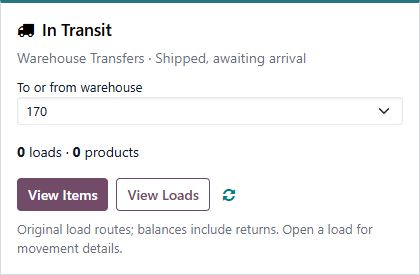
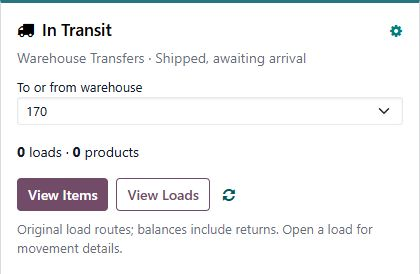
Document overview visibility settings with verified sandbox screenshots

diff --git a/docs/assets/manuals.js b/docs/assets/manuals.js
@@ -43,7 +43,7 @@ const MODULES = [
   {slug:'celestial-3pl-fulfillment',module:'celestial_3pl_fulfillment',name:'Celestial 3PL Fulfillment',version:'19.0.1.0.2',category:'Warehouse & Logistics',repo:'Insight',summary:'Manages controlled release of outgoing deliveries to Celestial 3PL and records shipment confirmation.',setup:['Open Inventory → Configuration → Celestial 3PL Setup.','Select the exact company and warehouse, then review the address and dispatch email.','Use Preview and Enable only after the business approves the 3PL routing; the integration starts inactive.'],use:['Open the selected outgoing delivery and print the 3PL Pick List.','Review the delivery and use Send to Celestial when the release is approved.','After actual fulfillment evidence arrives, record shipped quantities and use Confirm 3PL Shipment.','Use native backorders for partial shipments and review the remaining quantities.'],troubleshoot:['If the action is absent, check the company, warehouse, delivery type, and enabled setup.','Do not confirm shipment before receiving evidence of actual quantities.','Vendor receipts are outside this outgoing 3PL workflow.']},
   {slug:'receipt-price-confirmation',module:'receipt_price_confirmation',name:'Receipt Price Confirmation',version:'19.0.1.0.5',category:'Warehouse & Logistics',repo:'receipt-price-confirmation',summary:'Adds an optional warehouse-level price review between physical receipt and inventory validation.',setup:['Open Inventory → Configuration → Warehouses and select the warehouse.','Enable Require Price Confirmation Before Receipt for that warehouse and save.','Confirm that an authorized pricing reviewer can access the confirmation queue.'],use:["In Odoo Barcode, scan the supplier receipt and enter the actual arrived quantities.", "Select Validate to open Receipt Acknowledgment, then Record Physical Arrival. Stock remains unreceived and unavailable.", "When QZ SATO Labels 19.0.1.0.8 or newer is installed, choose label quantities and a server printer in the label dialog, or choose Skip Printing.", "An Inventory or Purchase Administrator opens Confirm Receipt Pricing, reviews costs and confirms pricing.", "Validate the receipt after pricing approval and quantity review. Changes to products or quantities require pricing to be confirmed again.", "Use Daily Received Items or Weekly Received Items to review Final Validation and Pricing. Open to Validate takes you to the receipt and its normal approval controls."],troubleshoot:['If the price step does not appear, verify the setting on the receipt warehouse.','Check the reviewer’s permissions if Confirm Pricing is unavailable.','Do not validate a receipt with unresolved quantity or cost differences.']},
   {slug:'warehouse-location-pick-routing',module:'warehouse_location_pick_routing',name:'Warehouse Location Pick Routing',version:'19.0.1.0.12',category:'Warehouse & Logistics',repo:'warehouse-location-pick-routing',summary:'Routes eligible 170/Stock to 170/Output picks through 160 crew location tickets while preserving reservations.',setup:['Confirm the source and destination locations and 160 crew locations match the warehouse routing design.','Installation activates the eligible route; review it with warehouse leads before relying on it.'],use:['Open an eligible outgoing pick and review the generated location-level child tickets.','Work each child ticket from its assigned source location and record the actual picked quantities.','Review remaining quantities and backorders before completing the parent delivery.'],troubleshoot:['The route applies only to the configured 170/Stock → 170/Output flow.','If tickets are missing or quantities differ, inspect source locations, reservations, and completed child moves before retrying.']},
-  {slug:'warehouse-shipment',module:'warehouse_shipment',name:'Warehouse Transfers',version:'19.0.1.0.10',category:'Warehouse & Logistics',repo:'warehouse-shipment',guideUrl:'170-to-celestial.html',summary:'Plans interwarehouse loads with source pick tickets, shipping BOLs, linked stock operations and progress tracking. Illustrated release verified in sandbox; check production availability.',setup:['Select the correct company and verify both warehouses belong to it.','Verify the source-to-destination resupply route and warehouse shipping addresses.','For 170 to Celestial, use Celestial - California: Supply Product from 170. The illustrated route is 170/Stock → 170/Output → Inter-warehouse transit → CELCA/Stock.'],use:['Open Inventory → Operations → Warehouse Transfers and select New.','Choose source, destination, route, planned arrival, load reference and product quantities in their stock units.','Complete Shipping / BOL and select Confirm Transfer. Review All Transfers and print the Pick Ticket and Shipping BOL.','Complete the source pick, validate departure into transit, then receive actual arrival quantities through the existing destination receipt.','If using the Celestial Inventory connector, set the inbound receipt reference before transaction processing. Do not receive a quantity twice.','Review backorders and Picked, Shipped, In Transit, Arrived, Stored and Remaining. Follow the complete illustrated 170-to-Celestial guide linked above.'],troubleshoot:['Check company, access, installed version and the exact resupply route when a menu or route is missing.','Confirmation and document printing do not validate transfers; actual source dispatch and destination receipt are separate operations.','Use actual quantities and native backorders for partial moves. Do not use stock-comparison adjustments to receive a load already in transit.']},
+  {slug:'warehouse-shipment',module:'warehouse_shipment',name:'Warehouse Transfers',version:'19.0.1.0.12',category:'Warehouse & Logistics',repo:'warehouse-shipment',guideUrl:'170-to-celestial.html',summary:'Plans interwarehouse loads with source pick tickets, shipping BOLs, linked stock operations and progress tracking. Illustrated release verified in sandbox; check production availability.',setup:['Select the correct company and verify both warehouses belong to it.','Verify the source-to-destination resupply route and warehouse shipping addresses.','For 170 to Celestial, use Celestial - California: Supply Product from 170. The illustrated route is 170/Stock → 170/Output → Inter-warehouse transit → CELCA/Stock.'],use:['Open Inventory → Operations → Warehouse Transfers and select New.','Choose source, destination, route, planned arrival, load reference and product quantities in their stock units.','Complete Shipping / BOL and select Confirm Transfer. Review All Transfers and print the Pick Ticket and Shipping BOL.','Complete the source pick, validate departure into transit, then receive actual arrival quantities through the existing destination receipt.','If using the Celestial Inventory connector, set the inbound receipt reference before transaction processing. Do not receive a quantity twice.','Review backorders and Picked, Shipped, In Transit, Arrived, Stored and Remaining. Follow the complete illustrated 170-to-Celestial guide linked above.'],troubleshoot:['Check company, access, installed version and the exact resupply route when a menu or route is missing.','Confirmation and document printing do not validate transfers; actual source dispatch and destination receipt are separate operations.','Use actual quantities and native backorders for partial moves. Do not use stock-comparison adjustments to receive a load already in transit.']},
   {slug:'product-on-order-column',module:'product_on_order_column',name:'Product On Order Column',version:'19.0.1.0.0',category:'Products & Inventory',repo:'product-on-order-column',summary:'Shows outstanding confirmed purchase-order quantity on the product list for the active company.',setup:['Open Purchase → Configuration → Settings.','Under Product List, enable Show On Order Column for the current company and save.','Repeat for any other company that should see the column.'],use:['Open the product list in the company where the setting is enabled.','Review On Order alongside existing stock quantities.','Open the purchase orders when you need supplier, date, or line-level detail.'],troubleshoot:['If the column is absent, confirm the active company and the Product List setting.','On Order reflects confirmed purchase-order quantity remaining to receive; draft orders are excluded.'],walkthrough:[{title:'Enable the column',image:'assets/screenshots/product-on-order-setting.jpg',caption:'The Purchase settings page shows the company-specific Show On Order Column option.',steps:['Select the intended company.','Open Purchase → Configuration → Settings.','Enable Show On Order Column and save.','Open the product list to verify the column.']}]},
 ];
 

diff --git a/docs/170-to-celestial.html b/docs/170-to-celestial.html
@@ -21,7 +21,7 @@
       <div class="callout"><strong>Screenshot environment:</strong> sandbox, captured October 20, 2026 using <strong>TEST Warehouse Transfer Product</strong> and a TRAINING reference. The example was confirmed to show its linked operations, then canceled without validating any stock moves. Screenshots show fields and buttons, not evidence of a completed physical shipment. These controls reflect sandbox. Confirm they are available in production before following the guide there. Receipt-matching fields require the Celestial Inventory connector.</div>
     </header>
     <div class="guide-layout">
-      <aside class="toc"><strong>On this page</strong><a href="#before">Before you start</a><a href="#plan">1. Plan the load</a><a href="#quantities">2. Enter quantities</a><a href="#bol">3. Shipping details</a><a href="#confirm">4. Confirm and print</a><a href="#pick">5. Pick at 170</a><a href="#ship">6. Record departure</a><a href="#transit">Track loads in transit</a><a href="#reference">7. Match the receipt</a><a href="#receive">8. Receive at Celestial</a><a href="#finish">9. Verify completion</a><a href="#exceptions">Shortages and problems</a></aside>
+      <aside class="toc"><strong>On this page</strong><a href="#before">Before you start</a><a href="#plan">1. Plan the load</a><a href="#quantities">2. Enter quantities</a><a href="#bol">3. Shipping details</a><a href="#confirm">4. Confirm and print</a><a href="#pick">5. Pick at 170</a><a href="#ship">6. Record departure</a><a href="#transit">Track loads in transit</a><a href="#overview-visibility">Show or hide overview boxes</a><a href="#reference">7. Match the receipt</a><a href="#receive">8. Receive at Celestial</a><a href="#finish">9. Verify completion</a><a href="#exceptions">Shortages and problems</a></aside>
       <article class="guide-content">
         <section class="guide-section" id="before">
           <p class="eyebrow">Prerequisites</p><h2>Before you start</h2>
@@ -70,6 +70,17 @@
           <p class="eyebrow">Inventory overview</p><h2>Track loads in transit</h2>
           <ol class="steps"><li>Open <strong>Inventory → Overview</strong> and find the <strong>In Transit</strong> box. It covers <strong>Warehouse Transfers loads only</strong>.</li><li>Choose <strong>170</strong> or <strong>Celestial – California</strong> under <strong>To or from warehouse</strong>. The filter includes loads in either direction for that warehouse and within your selected companies. Use the refresh icon after completing operations elsewhere.</li><li>Select <strong>View Items</strong> to see the product, original load source/destination, stock unit and in-transit quantity. Select <strong>View Loads</strong> or <strong>Open Load</strong> to review linked transfers and evidence.</li><li>The box counts distinct loads and products. In-transit quantity is net shipped minus net arrived: confirmation or picking alone does not add an item. Partial arrivals reduce it; full arrival removes it even if storage is unfinished. A closed-short load can still have goods in transit.</li><li>Returns are netted into these balances. The warehouse columns identify the original load route; use the linked transfers to review actual return direction. This box is read-only and does not move stock.</li></ol>
           <figure class="figure" style="max-width:460px"><a href="assets/screenshots/170-celestial/09-in-transit.png" target="_blank" rel="noreferrer"><img src="assets/screenshots/170-celestial/09-in-transit.png" loading="lazy" alt="Inventory overview In Transit box with warehouse filter, load and product counts, View Items, View Loads and refresh controls."></a><figcaption>The In Transit box with warehouse 170 selected. Zero means no positive dispatched-but-not-arrived balance for that scope at capture time; a confirmed plan alone is not in transit.</figcaption></figure>
+        </section>
+        <section class="guide-section" id="overview-visibility">
+          <p class="eyebrow">Inventory administrator</p><h2>Show or hide overview boxes</h2>
+          <p>These settings change visibility for everyone. They do not archive the operation type, disable its routes, change transfers or move stock. All boxes start enabled.</p>
+          <h3>Receipts, Pick, Delivery Orders and other operation boxes</h3>
+          <ol class="steps"><li>Open the box’s <strong>⋮ → Configuration</strong>, or go to <strong>Inventory → Configuration → Operations Types</strong>.</li><li>Open the exact operation type and verify its <strong>Warehouse</strong> and <strong>Company</strong>. For example, 170 Internal Transfers is separate from Celestial Internal Transfers.</li><li>On <strong>General</strong>, uncheck <strong>Show on Inventory Overview</strong> to hide that box, or check it to show the box.</li><li>Save, return to <strong>Overview</strong>, and refresh the page. A hidden operation is still listed in Operations Types, so you can turn the checkbox back on there.</li></ol>
+          <figure class="figure"><a href="assets/screenshots/170-celestial/10-operation-visibility.png" target="_blank" rel="noreferrer"><img src="assets/screenshots/170-celestial/10-operation-visibility.png" loading="lazy" alt="Operation type General configuration with the Show on Inventory Overview checkbox beside the warehouse settings."></a><figcaption>Change only the overview checkbox. Keep the operation active when it is still part of a warehouse route.</figcaption></figure>
+          <p>Immediately after a module update, reopen Inventory from the Home menu once so the overview loads its updated settings.</p><h3>The In Transit box</h3>
+          <ol class="steps"><li>Select the box’s <strong>Configuration</strong> gear, or open <strong>Inventory → Configuration → In Transit Overview</strong>.</li><li>Change <strong>Show on Inventory Overview</strong> and select <strong>Save</strong>.</li><li>Refresh Overview if needed. If the box is hidden, the Configuration menu remains available to enable it again.</li></ol>
+          <figure class="figure"><a href="assets/screenshots/170-celestial/11-transit-visibility.png" target="_blank" rel="noreferrer"><img src="assets/screenshots/170-celestial/11-transit-visibility.png" loading="lazy" alt="In Transit Overview configuration dialog with a Show on Inventory Overview checkbox and Save and Cancel buttons."></a><figcaption>The In Transit visibility preference applies to all users and companies. Inventory or Settings administrators control this setting.</figcaption></figure>
+          <p>For a personal selection instead, use the standard operation boxes’ stars and the <strong>Favorites</strong> filter, then save your search as a default. The shared visibility checkbox determines whether a standard box is available on Overview at all.</p>
         </section>
         <section class="guide-section" id="reference">
           <p class="eyebrow">07 · Receiving coordinator</p><h2>Put Celestial’s matching reference on the receipt</h2>

diff --git a/docs/changes.html b/docs/changes.html
@@ -1,4 +1,4 @@
-<!doctype html><html lang="en"><head><meta charset="utf-8"><meta name="viewport" content="width=device-width,initial-scale=1"><meta name="description" content="Version and repository change tracking for documented Odoo modules."><title>Module Changes · Foresight Odoo Documentation</title><link rel="stylesheet" href="assets/docs.css?v=20260917-2"><script defer src="assets/manuals.js?v=20261020-transit"></script></head><body>
+<!doctype html><html lang="en"><head><meta charset="utf-8"><meta name="viewport" content="width=device-width,initial-scale=1"><meta name="description" content="Version and repository change tracking for documented Odoo modules."><title>Module Changes · Foresight Odoo Documentation</title><link rel="stylesheet" href="assets/docs.css?v=20260917-2"><script defer src="assets/manuals.js?v=20261020-visibility"></script></head><body>
 <a class="skip-link" href="#main">Skip to changes</a><header class="site-header"><div class="header-inner"><a class="brand" href="index.html"><span class="brand-mark">F</span><span>Odoo Documentation</span></a><nav class="site-nav"><a href="index.html">Home</a><a href="daily-workflows.html">Daily workflows</a><a href="quick-start.html">Quick start</a><a href="modules.html">Module manuals</a><a href="changes.html" aria-current="page">Changes</a><a href="quotation-sop.html">Quotation SOP</a></nav></div></header>
 <main id="main" class="page-shell"><header class="guide-head compact-head"><p class="eyebrow">Change control</p><h1>Module version register</h1><p class="lede">A public, sanitized register of the source versions covered by these manuals. Check Odoo Apps for installed versions; a documented version does not confirm production deployment. Repository history remains the authoritative technical record.</p><div class="callout"><strong>Privacy:</strong> Private repository links require an authorized GitHub account. This page never contains source credentials or customer records.</div></header><section class="section"><div class="table-scroll"><table class="comparison-table change-table"><thead><tr><th>Module</th><th>Documented version</th><th>Category</th><th>Technical history</th></tr></thead><tbody data-change-table></tbody></table></div></section></main>
 <footer class="site-footer"><div class="footer-inner"><p>Foresight Packaging Solutions · Odoo 19</p><p>Version register reviewed 14 October 2026</p></div></footer></body></html>

diff --git a/docs/modules.html b/docs/modules.html
@@ -1,4 +1,4 @@
-<!doctype html><html lang="en"><head><meta charset="utf-8"><meta name="viewport" content="width=device-width,initial-scale=1"><meta name="description" content="Searchable user manuals for Foresight Packaging Solutions Odoo modules."><title>Module Manuals · Foresight Odoo Documentation</title><link rel="stylesheet" href="assets/docs.css?v=20260917-2"><script defer src="assets/manuals.js?v=20261020-transit"></script></head><body>
+<!doctype html><html lang="en"><head><meta charset="utf-8"><meta name="viewport" content="width=device-width,initial-scale=1"><meta name="description" content="Searchable user manuals for Foresight Packaging Solutions Odoo modules."><title>Module Manuals · Foresight Odoo Documentation</title><link rel="stylesheet" href="assets/docs.css?v=20260917-2"><script defer src="assets/manuals.js?v=20261020-visibility"></script></head><body>
 <a class="skip-link" href="#main">Skip to manuals</a><header class="site-header"><div class="header-inner"><a class="brand" href="index.html"><span class="brand-mark">F</span><span>Odoo Documentation</span></a><nav class="site-nav"><a href="index.html">Home</a><a href="daily-workflows.html">Daily workflows</a><a href="quick-start.html">Quick start</a><a href="modules.html" aria-current="page">Module manuals</a><a href="changes.html">Changes</a><a href="quotation-sop.html">Quotation SOP</a></nav></div></header>
 <main id="main" class="page-shell"><section class="library-head"><p class="eyebrow">Odoo handbook</p><h1>Module manuals</h1><p class="lede">Search illustrated guides for current and optional Odoo 19 modules. Check Apps for each module’s installation status.</p><div class="library-tools"><label><span>Search manuals</span><input data-module-search type="search" placeholder="Search by name, module, or purpose"></label><label><span>Category</span><select data-category-filter></select></label></div><p class="result-count" data-result-count></p></section><section class="module-grid" data-module-grid aria-live="polite"></section></main>
 <footer class="site-footer"><div class="footer-inner"><p>Foresight Packaging Solutions · Odoo 19</p><p>Public operational documentation · No customer data</p></div></footer></body></html>

diff --git a/docs/manual.html b/docs/manual.html
@@ -1,2 +1,2 @@
-<!doctype html><html lang="en"><head><meta charset="utf-8"><meta name="viewport" content="width=device-width,initial-scale=1"><meta name="description" content="Odoo module user manual."><title>Module User Manual</title><link rel="stylesheet" href="assets/docs.css?v=20261014-receiving-4"><script defer src="assets/manuals.js?v=20261020-transit"></script></head><body>
+<!doctype html><html lang="en"><head><meta charset="utf-8"><meta name="viewport" content="width=device-width,initial-scale=1"><meta name="description" content="Odoo module user manual."><title>Module User Manual</title><link rel="stylesheet" href="assets/docs.css?v=20261014-receiving-4"><script defer src="assets/manuals.js?v=20261020-visibility"></script></head><body>
 <a class="skip-link" href="#main">Skip to manual</a><header class="site-header"><div class="header-inner"><a class="brand" href="index.html"><span class="brand-mark">F</span><span>Odoo Documentation</span></a><nav class="site-nav"><a href="index.html">Home</a><a href="daily-workflows.html">Daily workflows</a><a href="quick-start.html">Quick start</a><a href="modules.html" aria-current="page">Module manuals</a><a href="changes.html">Changes</a><a href="quotation-sop.html">Quotation SOP</a></nav></div></header><main id="main" class="page-shell" data-manual></main><footer class="site-footer"><div class="footer-inner"><p>Foresight Packaging Solutions · Odoo 19</p><p>Validate changes in sandbox before production</p></div></footer></body></html>

diff --git a/docs/daily-workflows.html b/docs/daily-workflows.html
@@ -43,7 +43,7 @@
       <p class="flow-note">The exact handoff depends on the warehouse route and stock availability. A confirmed PO normally generates a receipt; a confirmed sales order can generate a pick and delivery. Finish each Barcode operation only after its actual quantities and destination are correct.</p>
     </section>
 
-    <section class="guide-section" id="170-celestial"><p class="eyebrow">Warehouse-to-warehouse · Illustrated SOP</p><h2>Transfer stock from 170 to Celestial</h2><p>Follow the complete load-planning, picking, BOL, dispatch, transit and receiving workflow. Nine sandbox screenshots show the actual fields and controls, including the Celestial receipt reference and progress columns.</p><a class="button button-primary" href="170-to-celestial.html">Open the 170-to-Celestial guide</a></section>
+    <section class="guide-section" id="170-celestial"><p class="eyebrow">Warehouse-to-warehouse · Illustrated SOP</p><h2>Transfer stock from 170 to Celestial</h2><p>Follow the complete load-planning, picking, BOL, dispatch, transit and receiving workflow. Eleven sandbox screenshots show the actual fields and controls, including the Celestial receipt reference and progress columns.</p><a class="button button-primary" href="170-to-celestial.html">Open the 170-to-Celestial guide</a></section>
 
     <div class="daily-guide-grid">
       <section class="guide-section" id="purchase-order"><p class="eyebrow">01 · Purchasing</p><h2>Create a purchase order</h2>

diff --git a/docs/quick-start.html b/docs/quick-start.html
@@ -7,7 +7,7 @@
   <title>Module Quick Start · Foresight Odoo Documentation</title>
   <link rel="icon" href="favicon.svg" type="image/svg+xml">
   <link rel="stylesheet" href="assets/docs.css?v=20261014-receiving-4">
-  <script defer src="assets/manuals.js?v=20261020-transit"></script>
+  <script defer src="assets/manuals.js?v=20261020-visibility"></script>
 </head>
 <body>
   <a class="skip-link" href="#main">Skip to quick start</a>

diff --git a/README.md b/README.md
@@ -8,7 +8,7 @@ The GitHub Pages site includes:
 - A version register with links to each module's repository history.
 - An illustrated SOP for standard and Program-project quotations.
 - Illustrated daily guides and a process map for purchase orders, Barcode receiving and stocking, quotes, sales orders, Barcode picking, and shipping.
-- A complete 170-to-Celestial stock-transfer guide with nine sandbox screenshots, BOL and pick-ticket instructions, separate dispatch/receipt controls, connector reference matching and backorders.
+- A complete 170-to-Celestial stock-transfer guide with eleven sandbox screenshots, BOL and pick-ticket instructions, separate dispatch/receipt controls, connector reference matching and backorders.
 - Clear production and sandbox operating conventions.
 
 No credentials, customer records, internal Odoo URLs, or source code are published. Odoo Apps screenshots show module availability at capture time; installation status can change. Private module repository links require an authorized GitHub account.
